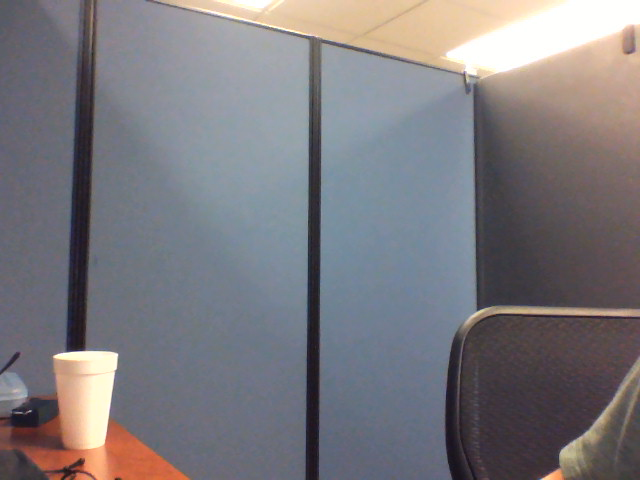
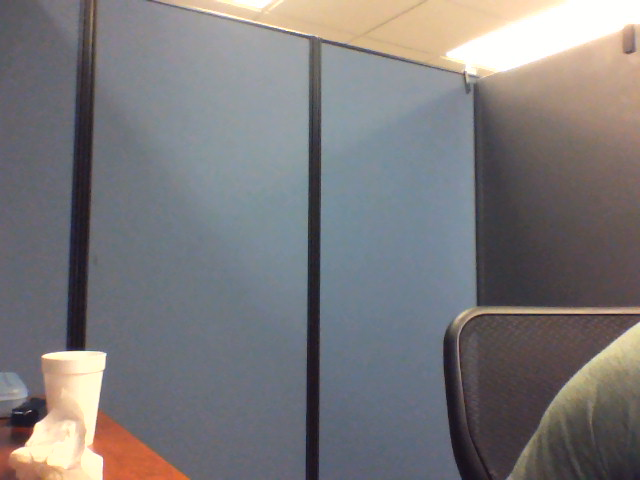
Camera.py is more object oriented

Changed region(s): [[0.6875, 0.625, 1.0, 1.0], [0.0, 0.7188, 0.1875, 1.0], [0.0, 0.7188, 0.0312, 0.7812]]

diff --git a/face_detector/camera_object.py b/face_detector/camera_object.py
@@ -148,7 +148,7 @@ if __name__ == "__main__":
         
     greenButton = button((192, 192, 192),470,500,100,40, 'Start')
     while wait:
-        pygame.draw.rect(screen,(255,255,255),pygame.Rect(0,0,640,480))
+        pygame.draw.rect(screen,(255,255,255),pygame.Rect(50,0,640,480))
         redrawWindow()
         pygame.display.update()
         for event in pygame.event.get():
@@ -226,7 +226,7 @@ if __name__ == "__main__":
         cv2.imwrite('1.png',img)
         #out.write(img)
         faceImg = pygame.image.load('1.png')
-        screen.blit(faceImg,(0,0))
+        screen.blit(faceImg,(50,0))
         pygame.draw.rect(screen,(0,0,0),pygame.Rect(0,480,200,580))
         pygame.display.update()
         for event in pygame.event.get():
